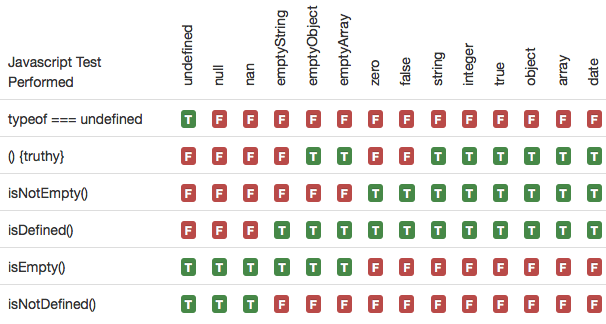
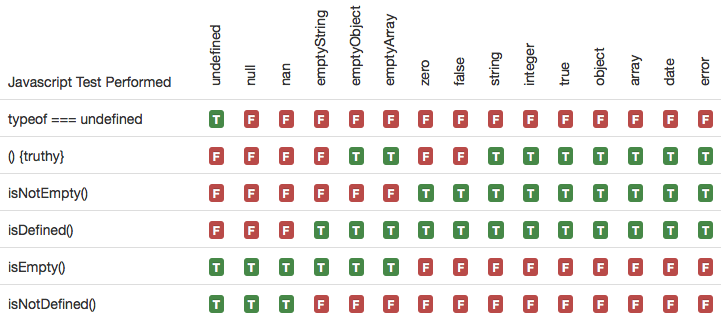
minor documentation tweaks

diff --git a/test/visualization.html b/test/visualization.html
@@ -70,6 +70,7 @@
             var objectValue = {"some":"thing"};
             var arrayValue = ["some","thing"];
             var dateValue = new Date();
+            var errorValue = new Date("some error");
 
 
             // build values
@@ -92,6 +93,7 @@
             truthyTest["objectValue"] = (objectValue) ? true : false;
             truthyTest["arrayValue"] = (arrayValue) ? true : false;
             truthyTest["dateValue"] = (dateValue) ? true : false;
+            truthyTest["errorValue"] = (errorValue) ? true : false;
 
             var typeOfUndefinedTest = {}
 
@@ -112,6 +114,7 @@
             typeOfUndefinedTest["objectValue"] = (typeof objectValue === "undefined") ? true : false;
             typeOfUndefinedTest["arrayValue"] = (typeof arrayValue === "undefined") ? true : false;
             typeOfUndefinedTest["dateValue"] = (typeof dateValue === "undefined") ? true : false;
+            typeOfUndefinedTest["errorValue"] = (typeof errorValue === "undefined") ? true : false;
 
 
             // build values
@@ -135,6 +138,7 @@
             isEmptyTest["objectValue"] = sjv[functionName](objectValue) ? true : false;
             isEmptyTest["arrayValue"] = sjv[functionName](arrayValue) ? true : false;
             isEmptyTest["dateValue"] = sjv[functionName](dateValue) ? true : false;
+            isEmptyTest["errorValue"] = sjv[functionName](errorValue) ? true : false;
 
             var isNotEmptyTest = {}
             var functionName = "isNotEmpty";
@@ -156,6 +160,7 @@
             isNotEmptyTest["objectValue"] = sjv[functionName](objectValue) ? true : false;
             isNotEmptyTest["arrayValue"] = sjv[functionName](arrayValue) ? true : false;
             isNotEmptyTest["dateValue"] = sjv[functionName](dateValue) ? true : false;
+            isNotEmptyTest["errorValue"] = sjv[functionName](errorValue) ? true : false;
 
 
             // build values
@@ -179,6 +184,7 @@
             isDefinedTest["objectValue"] = sjv[functionName](objectValue) ? true : false;
             isDefinedTest["arrayValue"] = sjv[functionName](arrayValue) ? true : false;
             isDefinedTest["dateValue"] = sjv[functionName](dateValue) ? true : false;
+            isDefinedTest["errorValue"] = sjv[functionName](errorValue) ? true : false;
 
             var isNotDefinedTest = {}
             functionName = "isNotDefined";
@@ -200,6 +206,7 @@
             isNotDefinedTest["objectValue"] = sjv[functionName](objectValue) ? true : false;
             isNotDefinedTest["arrayValue"] = sjv[functionName](arrayValue) ? true : false;
             isNotDefinedTest["dateValue"] = sjv[functionName](dateValue) ? true : false;
+            isNotDefinedTest["errorValue"] = sjv[functionName](errorValue) ? true : false;
 
 
             var testKey, testResult, testPlaceholder, row, cell, cellText;

diff --git a/README.md b/README.md
@@ -1,4 +1,5 @@
-[![Build Status](https://api.travis-ci.org/dkhunt27/simpleJSValidator.png?branch=master)](https://travis-ci.org/dkhunt27/simpleJSValidator)
+[![Build Status-dev](https://api.travis-ci.org/dkhunt27/simpleJSValidator.png?branch=dev)](https://travis-ci.org/dkhunt27/simpleJSValidator)
+[![Build Status-master](https://api.travis-ci.org/dkhunt27/simpleJSValidator.png?branch=master)](https://travis-ci.org/dkhunt27/simpleJSValidator)
 [![NPM version](https://badge.fury.io/js/simpleJSValidator.png)](http://badge.fury.io/js/simpleJSValidator)
 
 simple-js-validator
@@ -124,8 +125,10 @@ Please see the <a href="http://dkhunt27.github.io/simpleJSValidator/#!/api/Simpl
 
 - Make sure working in dev branch
 - When updates are complete, run "grunt test" to verify all tests are passing.  Run "grunt hint" to verify all jshint checks are passing.
-- Then run "grunt release".  When it is complete, git commit and git push --tags
+- Then run "grunt release".  When it is complete, git commit, git push, and git push --tags
+- Wait for travis build confirmation
 - Make pull request to master
+- Wait for travis build confirmation
 - Pull down master locally
 - Run "npm publish"
 - Go back to dev branch
